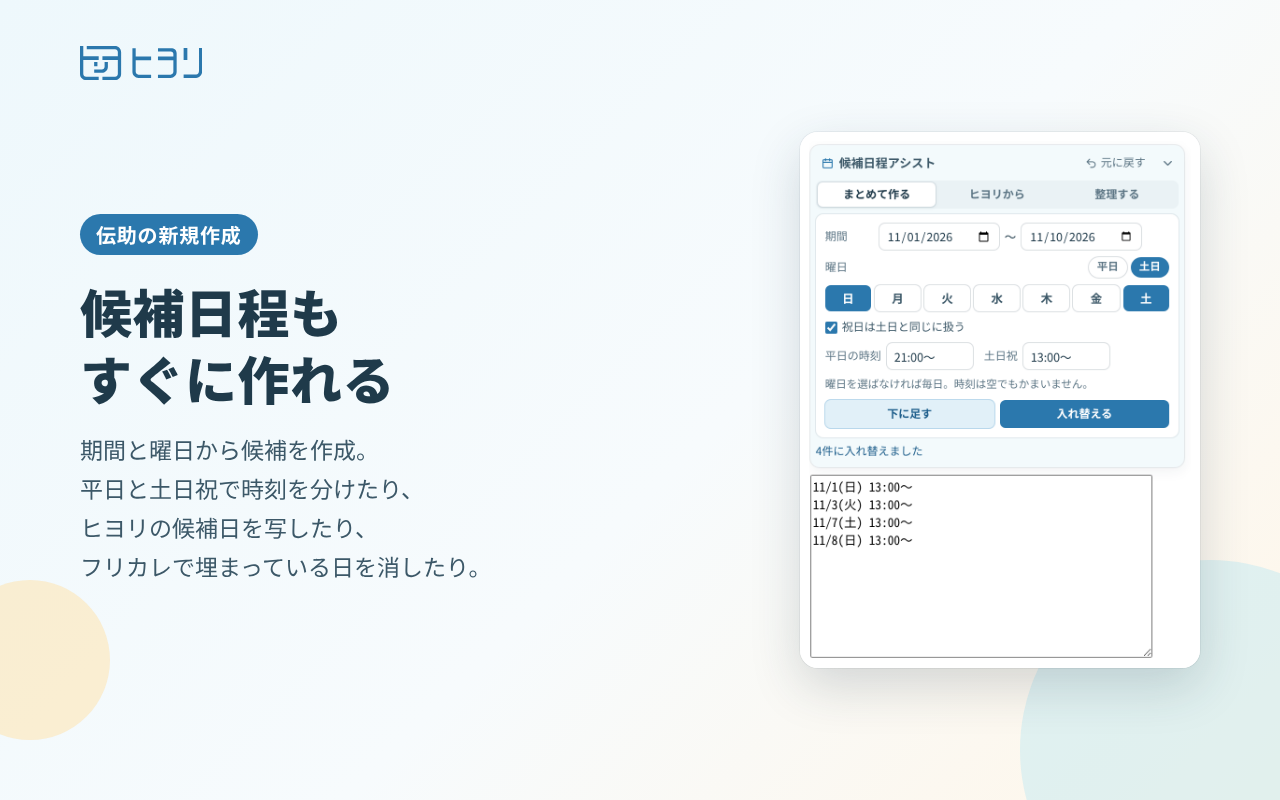
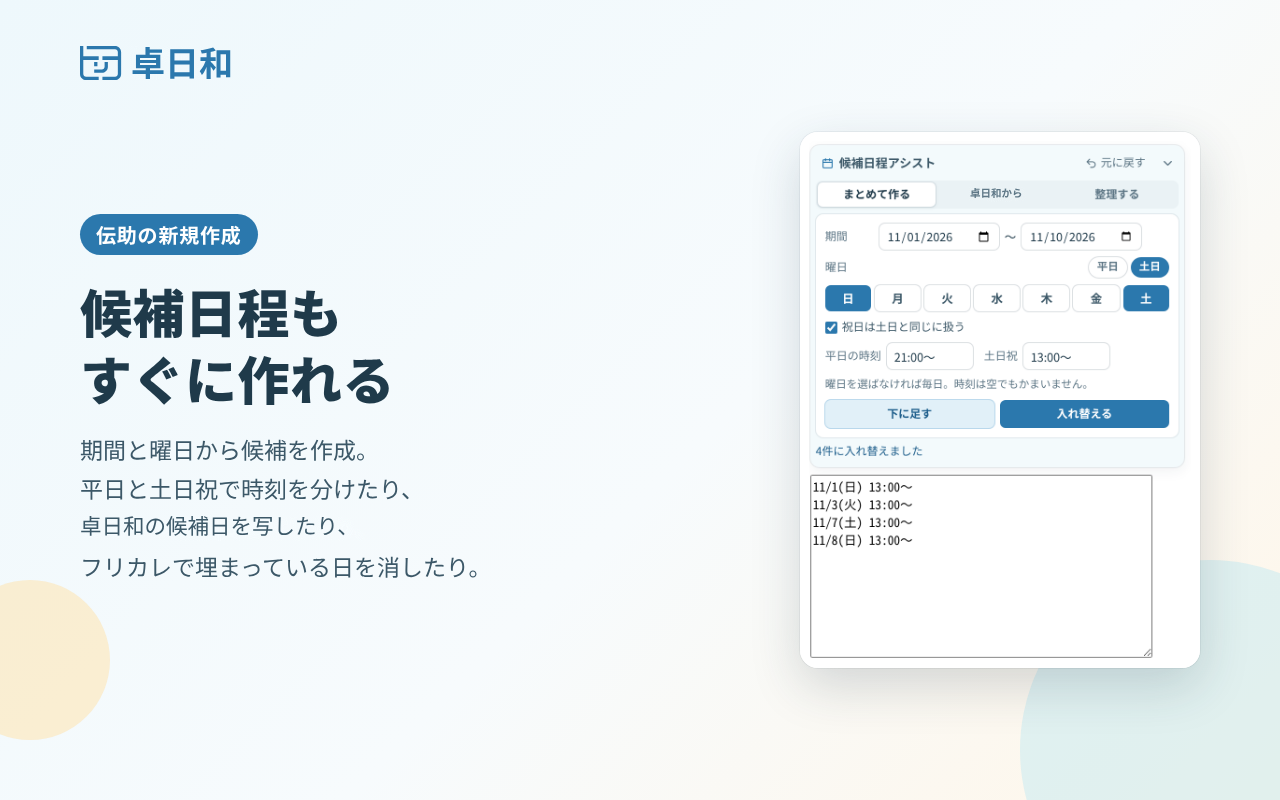
ストアの画像（宣伝・スクリーンショット・X の告知）の「ヒヨリ」を「卓日和」に差し替える
Claude-Session: https://claude.ai/code/session_01NVBx5rASEWWQPtFD5csMqA

Changed region(s): [[0.0625, 0.625, 0.2812, 0.6875], [0.0938, 0.0625, 0.1875, 0.0938], [0.75, 0.2188, 0.8125, 0.25]]

diff --git a/content.js b/content.js
@@ -517,7 +517,7 @@
   // 卓日和のサービスページ（ロゴと案内の行き先）
   const SERVICE_URL = 'https://macchan.onrender.com/sched/';
 
-  // 卓日和のロゴ（マーク＋文字）。sched.html の LOGO_FULL と同じ絵（マークは前からのもの。文字の「卓日和」は仮で、新しい文字の絵ができたら差し替える）。
+  // 卓日和のロゴ（マーク＋文字）。sched.html の LOGO_FULL と同じ絵（マークは前からのもの。文字の「卓日和」は文字で組む）。
   // 色は currentColor で決めるので、元絵を差し替えたら sched.html と一緒にここも書き換える。
   const LOGO_FULL = `<svg class="lg" viewBox="0 0 1110 280" fill="currentColor" aria-hidden="true"><svg x="0" y="0" width="338.56" height="279.91" viewBox="527.174 463.989 338.56 279.91"><path d="M838.65,548.554L838.65,514.332C838.65,501.495 828.228,491.072 815.391,491.072L582.865,491.072L582.865,463.989L815.391,463.989C843.176,463.989 865.734,486.547 865.734,514.332L865.734,693.557C865.734,721.342 843.176,743.899 815.391,743.899L711.821,743.899L711.821,716.816L815.391,716.816C828.228,716.816 838.65,706.394 838.65,693.557L838.65,579.288L711.821,579.288L711.821,548.554L838.65,548.554ZM554.257,579.288L554.257,693.557C554.257,706.394 564.679,716.816 577.517,716.816L681.087,716.816L681.087,743.899L577.517,743.899C549.732,743.899 527.174,721.342 527.174,693.557L527.174,464.124L554.257,464.124L554.257,548.554L681.087,548.554L681.087,579.288L554.257,579.288ZM729.721,596.34L756.804,596.34L756.804,634.869C756.804,662.654 734.246,685.212 706.461,685.212L644.039,685.212L644.039,658.129L706.461,658.129C719.299,658.129 729.721,647.706 729.721,634.869L729.721,596.34ZM643.575,596.34L670.658,596.34L670.658,630.25L643.575,630.25L643.575,596.34Z"/></svg><text x="392" y="232" font-size="232" font-weight="800" letter-spacing="6" fill="currentColor">卓日和</text></svg>`;
 

diff --git a/CHANGELOG.md b/CHANGELOG.md
@@ -15,7 +15,7 @@
 
 ## 名前を「卓日和」に（v1.2.1）
 
-日程調整サービスの名前が「ヒヨリ」から「卓日和（たくびより）」に変わったのに合わせて、拡張機能の名前を「卓日和 日程入力アシスト」に、画面と説明の文言も「卓日和」にしました。動きは変わりません。ロゴ・アイコン・ストアの画像は、新しいロゴができてから差し替えます。
+日程調整サービスの名前が「ヒヨリ」から「卓日和（たくびより）」に変わったのに合わせて、拡張機能の名前を「卓日和 日程入力アシスト」に、画面と説明の文言も「卓日和」にしました。動きは変わりません。アイコンは前のマークのまま、ロゴの文字は「卓日和」を文字で組んだものにし、ストアの画像の「ヒヨリ」も「卓日和」に差し替えました。
 
 ## キパビューの卓を写す（v1.2.0）
 
